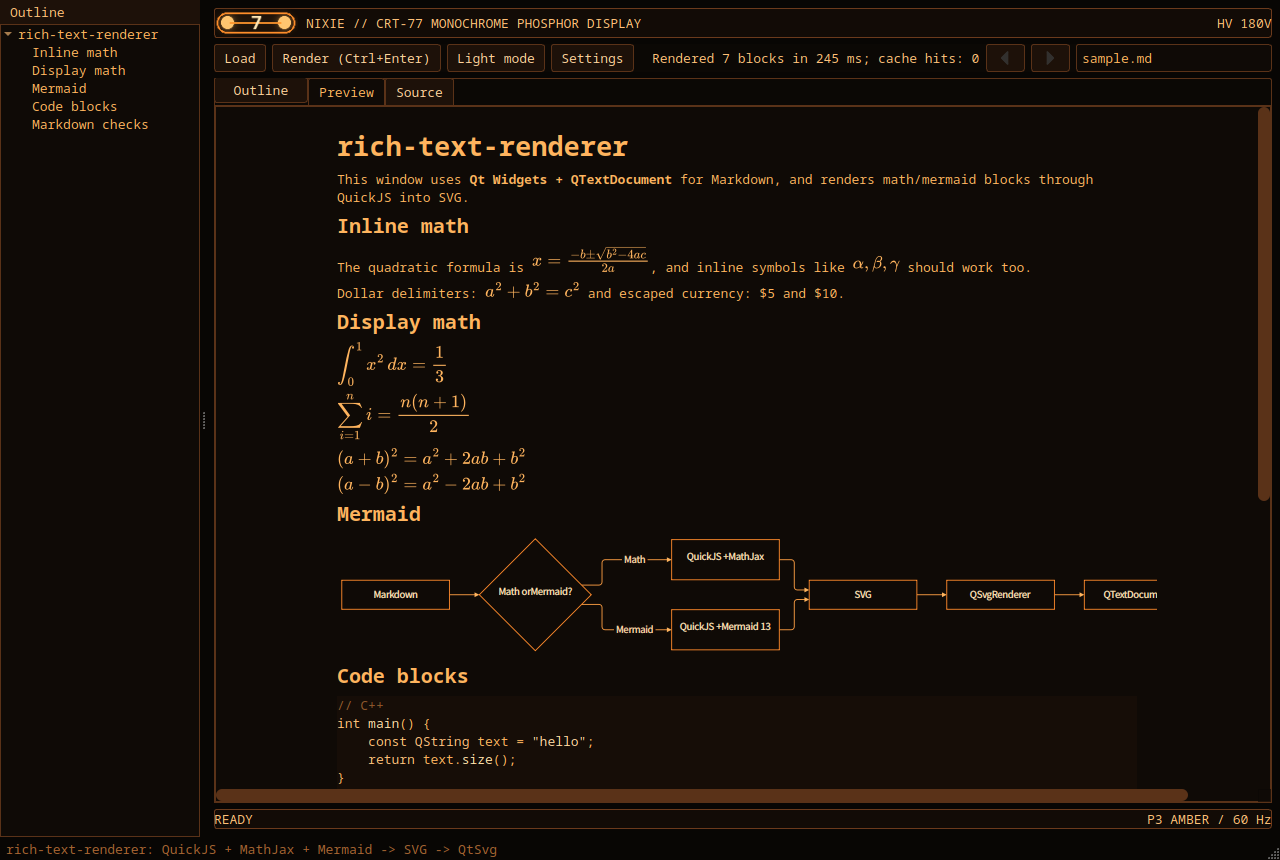
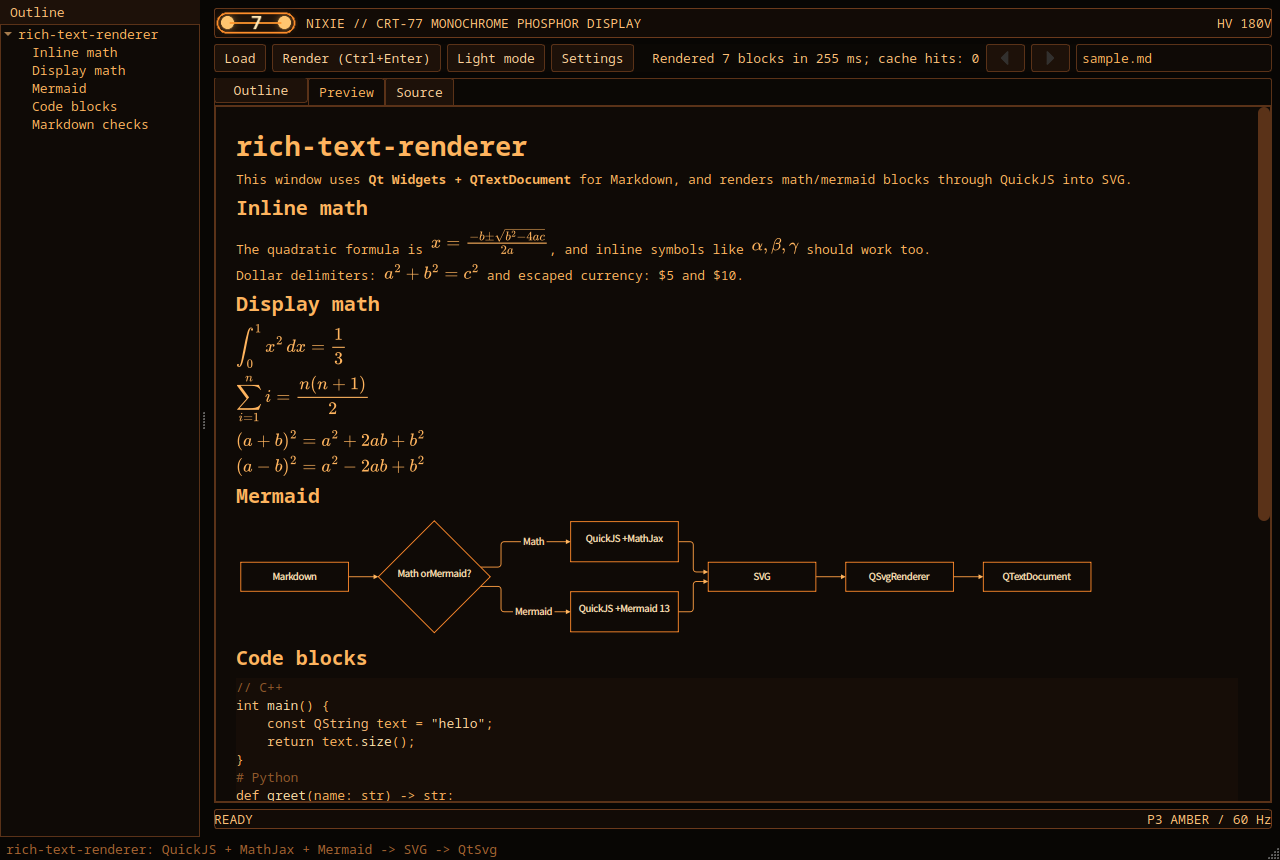
fix: keep Preview and Outline usable in slots layouts
Set the Nixie theme preview.maxTextWidth to 0 so the rendered document follows the Preview pane and splitter instead of staying at a fixed reading width. The full-width behavior also removes the narrow horizontal scroll condition when the Preview pane grows.

Give the Outline dock a 200 px minimum width and restore its usable width after every central layout rebuild. Make the toolbar status label shrinkable so informational text no longer forces a 1058 px central minimum, and give the central root an expanding size policy so rebuilt layouts claim their available space instead of letting the dock absorb it.

Cover status shrinking, Outline minimum and narrow-window widths, Preview width following viewport expansion, and Outline recovery after a slots-to-tabs theme switch. Refresh the Nixie screenshots and document the width behavior.

diff --git a/src/ui/MainWindow.cpp b/src/ui/MainWindow.cpp
@@ -52,6 +52,9 @@
 
 namespace {
 
+constexpr int kDefaultOutlineWidth = 200;
+constexpr int kMinimumOutlineWidth = 200;
+
 QString runtimeRoot()
 {
     const QString appDir = QCoreApplication::applicationDirPath();
@@ -129,8 +132,9 @@ MainWindow::MainWindow(bool dark, const QString &settingsPath, QWidget *parent)
     m_outlineDock->setWidget(m_outlinePanel);
     m_outlineDock->setAllowedAreas(Qt::LeftDockWidgetArea);
     m_outlineDock->setFeatures(QDockWidget::NoDockWidgetFeatures);
+    m_outlineDock->setMinimumWidth(kMinimumOutlineWidth);
     addDockWidget(Qt::LeftDockWidgetArea, m_outlineDock);
-    resizeDocks({m_outlineDock}, {240}, Qt::Horizontal);
+    resizeDocks({m_outlineDock}, {kDefaultOutlineWidth}, Qt::Horizontal);
     connect(m_outlinePanel, &OutlinePanel::blockRequested,
             this, &MainWindow::scrollPreviewToBlock);
     connect(m_outlineToggleButton, &QToolButton::toggled, this, [this](bool visible) {
@@ -224,6 +228,7 @@ void MainWindow::buildCentralShell()
         m_activeLayoutFile = selectedLayout.file;
         m_activeLayoutId = selectedLayout.id;
     }
+    shell.root->setSizePolicy(QSizePolicy::Expanding, QSizePolicy::Expanding);
     m_centralSlots = shell;
 }
 
@@ -244,6 +249,9 @@ void MainWindow::createCentralUiWidgets()
     m_status = new QLabel(QStringLiteral("No document open"), shell);
     m_status->setObjectName(QStringLiteral("statusLabel"));
     m_status->setTextInteractionFlags(Qt::TextSelectableByMouse);
+    // The status text is informational and must not raise the whole window's
+    // minimum width, which would squeeze the Outline dock on narrow screens.
+    m_status->setSizePolicy(QSizePolicy::Ignored, QSizePolicy::Preferred);
     m_backButton = new QToolButton(shell);
     m_backButton->setObjectName(QStringLiteral("historyBackButton"));
     m_backButton->setIcon(style()->standardIcon(QStyle::SP_ArrowBack));
@@ -475,9 +483,25 @@ void MainWindow::showPreviewContent()
 
 void MainWindow::rebuildCentralLayout()
 {
+    const int outlineWidth = m_outlineDock
+                                 ? qMax(kDefaultOutlineWidth, m_outlineDock->width())
+                                 : kDefaultOutlineWidth;
+
     buildCentralShell();
     populateCentralShell();
     setCentralWidget(m_centralSlots.root);
+    if (m_outlineDock) {
+        // Replacing the central widget can leave the dock at a stale width,
+        // either squeezed by the old minimum width or expanded into the new
+        // space. Restore a usable Outline width after each rebuild. The
+        // queued call runs after the new central layout has been activated.
+        resizeDocks({m_outlineDock}, {outlineWidth}, Qt::Horizontal);
+        QTimer::singleShot(0, this, [this, outlineWidth]() {
+            if (m_outlineDock) {
+                resizeDocks({m_outlineDock}, {outlineWidth}, Qt::Horizontal);
+            }
+        });
+    }
     updateToolbarHeights();
 }
 

diff --git a/tests/ui_layout_test.cpp b/tests/ui_layout_test.cpp
@@ -680,7 +680,10 @@ int main(int argc, char **argv)
         auto *tabs = window.findChild<QTabWidget *>(QStringLiteral("documentTabs"));
         auto *outlineToggle =
             window.findChild<QToolButton *>(QStringLiteral("outlineToggleButton"));
-        expect(previewSlot && sourceSlot && outlineSlot && preview && source && tabs,
+        auto *outlineDock =
+            window.findChild<QDockWidget *>(QStringLiteral("outlineDock"));
+        expect(previewSlot && sourceSlot && outlineSlot && preview && source && tabs
+                   && outlineDock,
                QStringLiteral("slots mode widgets found"));
         expect(previewSlot && previewSlot->isAncestorOf(preview),
                QStringLiteral("preview is injected into central.preview"));
@@ -692,12 +695,24 @@ int main(int argc, char **argv)
                QStringLiteral("outline toggle uses the outline slot"));
         expect(sourceSlot && !sourceSlot->isHidden(),
                QStringLiteral("source slot is visible by default"));
+        expect(outlineDock && outlineDock->width() >= outlineDock->minimumWidth()
+                   && outlineDock->minimumWidth() >= 200,
+               QStringLiteral("slots layout keeps a usable outline width"));
+
+        window.resize(1024, 700);
+        QCoreApplication::processEvents();
+        QCoreApplication::processEvents();
+        expect(outlineDock && outlineDock->width() >= outlineDock->minimumWidth(),
+               QStringLiteral("narrow slots layout keeps the outline usable"));
 
         window.setDarkMode(true);
+        QCoreApplication::processEvents();
         QCoreApplication::processEvents();
         QCoreApplication::sendPostedEvents(nullptr, QEvent::DeferredDelete);
         expect(tabs && !tabs->isHidden(),
                QStringLiteral("theme switch restores the tabbed content"));
+        expect(outlineDock && outlineDock->width() >= outlineDock->minimumWidth(),
+               QStringLiteral("theme switch restores the outline width"));
         expect(preview && preview->parentWidget()
                    && preview->parentWidget()->objectName() == QStringLiteral("central.preview"),
                QStringLiteral("theme switch restores the preview page"));

diff --git a/tests/main_window_startup_test.cpp b/tests/main_window_startup_test.cpp
@@ -104,6 +104,11 @@ int main(int argc, char **argv)
     auto *statusLabel = window.findChild<QLabel *>(QStringLiteral("statusLabel"));
     expect(statusLabel && toolbarTrailing->isAncestorOf(statusLabel),
            QStringLiteral("status is injected into the trailing slot"));
+    expect(statusLabel
+               && statusLabel->sizePolicy().horizontalPolicy() == QSizePolicy::Ignored,
+           QStringLiteral("status text can shrink without inflating the window minimum"));
+    expect(outlineDock->minimumWidth() >= 200,
+           QStringLiteral("outline dock keeps a usable minimum width"));
     expect(centralTop->property("centralSlot").toString() == QStringLiteral("top")
                && centralBottom->property("centralSlot").toString() == QStringLiteral("bottom")
                && centralEmpty->property("centralSlot").toString() == QStringLiteral("empty")
@@ -183,6 +188,23 @@ int main(int argc, char **argv)
 
     window.show();
     QCoreApplication::processEvents();
+
+    auto *previewView = window.findChild<QTextBrowser *>(QStringLiteral("previewView"));
+    window.resize(1024, 700);
+    QCoreApplication::processEvents();
+    QCoreApplication::processEvents();
+    const qreal narrowPreviewWidth =
+        previewView ? previewView->document()->textWidth() : 0;
+    expect(window.centralWidget()->minimumSizeHint().width() < 1000,
+           QStringLiteral("central layout minimum width leaves room for the outline"));
+    expect(outlineDock->width() >= outlineDock->minimumWidth(),
+           QStringLiteral("outline dock is not squeezed on a narrow window"));
+    window.resize(1280, 860);
+    QCoreApplication::processEvents();
+    QCoreApplication::processEvents();
+    expect(previewView && narrowPreviewWidth > 0
+               && previewView->document()->textWidth() > narrowPreviewWidth,
+           QStringLiteral("preview text width follows viewport expansion"));
 
     const QString visiblePath = directory.filePath(QStringLiteral("visible-load.md"));
     QString visibleContent =

diff --git a/tests/theme_test.cpp b/tests/theme_test.cpp
@@ -345,7 +345,7 @@ int main(int argc, char **argv)
                && nixie.previewFontFamily == QStringLiteral("Noto Sans Mono")
                && nixie.codeFontFamily == QStringLiteral("Noto Sans Mono"),
            QStringLiteral("nixie sample theme sets the mono families"));
-    expect(nixie.preview.maxTextWidth == 840
+    expect(nixie.preview.maxTextWidth == 0
                && nixie.preview.codeBackground == QColor(QStringLiteral("#160d07"))
                && nixie.preview.codeBlockMargin == 6,
            QStringLiteral("nixie sample theme sets the preview layout"));

diff --git a/docs/RESULTS.md b/docs/RESULTS.md
@@ -287,11 +287,13 @@ documentLayout()->documentSize();
 - 主题图片只支持 PNG/JPEG（≤2MiB、≤4096×4096），通过 `themeAsset` 逻辑 ID 注入，居中且不拉伸；
 - `.ui` 支持 `contentMode: tabs|slots`；`slots` 模式使用 `central.preview` / `central.source`，可选 `central.outline`；
 - `layouts` 支持手动布局变体，Settings 保存 `appearance/layoutId`；自动按宽度切换不实施；
+- Outline dock 保持至少 200px 可用宽度；工具栏状态文本允许收缩，避免把中央布局最小宽度推到窗口边缘；中央布局重建后恢复可用的 Outline 宽度，tabs/slots 或主题切换不会把 Outline 永久压窄；
+- 主题的 `preview.maxTextWidth=0` 时 Preview 文档宽度随面板或 splitter 伸缩；Nixie 示例使用该行为，避免 dual 模式下固定阅读列；
 - `.ui` 只替换 `QMainWindow::centralWidget()` 子树，Outline dock、标签页、工具栏、历史、设置和渲染 controller 保持 C++ 管理；
 - 具名插槽通过 `centralSlot` 动态属性生成固定 QSS 规则，支持背景、边框、圆角和 padding；
 - `samples/themes/aurora-dark` 同时验证 QSS、插槽样式和静态 `.ui` 布局；
-- `samples/themes/nixie-crt` 是完整的暖橙色单色 CRT / 辉光管示例，覆盖全部颜色角色、字体族、代码和 Source 色板、Preview 阅读列与代码样式、8 个 Mermaid 颜色变量、PNG 标志、全部 9 个具名插槽样式以及 `console`/`dual` 两种手动布局；截图见 [nixie-console.png](assets/nixie-console.png) 和 [nixie-dual.png](assets/nixie-dual.png)；
-- `ui-layout-test` 覆盖有效布局、缺失插槽、未知控件、外部 URL、样式表注入、超大 XML、路径越界、错误版本、字号属性、tabs/slots 切换、Source 显隐、布局变体和失败回退；
+- `samples/themes/nixie-crt` 是完整的暖橙色单色 CRT / 辉光管示例，覆盖全部颜色角色、字体族、代码和 Source 色板、Preview 自适应宽度与代码样式、8 个 Mermaid 颜色变量、PNG 标志、全部 9 个具名插槽样式以及 `console`/`dual` 两种手动布局；截图见 [nixie-console.png](assets/nixie-console.png) 和 [nixie-dual.png](assets/nixie-dual.png)；
+- `ui-layout-test` 覆盖有效布局、缺失插槽、未知控件、外部 URL、样式表注入、超大 XML、路径越界、错误版本、字号属性、tabs/slots 切换、Source 显隐、布局变体、Outline 宽度恢复和失败回退；
 - `theme-test` 覆盖 Preview、Mermaid、图片资源和布局变体 schema，并实际加载 `nixie-crt` 示例包及其两个 `.ui` 布局；`svg-sanitizer-test` 和 `svg-cache-test` 覆盖 Mermaid 变量映射与缓存签名；
 - 主题切换到内置主题时会重建默认中央布局，文档、历史、设置和 Outline 不受影响；
 - 内置 light/dark 与阶段改动前截图对比，仅状态栏计时文本和极少量抗锯齿像素不同；

diff --git a/samples/themes/nixie-crt/README.md b/samples/themes/nixie-crt/README.md
@@ -5,9 +5,10 @@ and early CRT monitors. It uses a near-black brown background, a bright
 fluorescent orange text color and a small glowing tube mark, while keeping the
 document readable for long sessions.
 
-The theme is a complete example package: it uses every user-theme capability
-that `rich-text-renderer` currently offers except automatic responsive layout
-switching, which is not implemented.
+The theme exercises the current user-theme schema: colors, typography, syntax
+palettes, preview styling, Mermaid variables, a PNG asset, all slot style keys,
+both content modes and metrics. Automatic responsive layout switching is not
+implemented.
 
 ## Install
 
@@ -50,6 +51,8 @@ and then to the built-in default central layout.
 
 The accent is deliberately brighter than a real amber CRT so headings, links,
 selection and diagram borders remain legible against the warm black surfaces.
+`preview.maxTextWidth` is explicitly `0`: a fixed reading column would ignore
+Preview pane or splitter expansion, which is not desirable for the dual layout.
 
 ## Capabilities used
 
@@ -59,8 +62,9 @@ selection and diagram borders remain legible against the warm black surfaces.
   still controlled by Settings.
 - **Syntax palettes**: separate code and Source palettes, from bright headings
   to dim comments.
-- **Preview**: an 840 px centered reading column, code background and code
-  block spacing.
+- **Preview**: width follows the pane or splitter, so expanding the Preview
+  area makes the rendered document wider; the theme only sets the code
+  background, code block spacing and a 20 px document margin.
 - **Mermaid**: the `base` theme with all eight supported color variables, so
   diagrams use dark node fills and orange borders, lines and labels.
 - **PNG asset**: `assets/nixie-mark.png` is a 96×34 transparent tube mark.

diff --git a/FOR_LOCVAS.md b/FOR_LOCVAS.md
@@ -40,7 +40,7 @@
 - 代码高亮必须使用 Qt `QSyntaxHighlighter`，覆盖 C++、Python、JavaScript、JSON、Bash 和 LaTeX。
 - Source 必须是只读视图，不提供编辑、保存或 dirty 状态。
 - 标题目录必须从 `QTextDocument` 的标题层级生成；点击条目把目标 block 对齐到 Preview 顶部。
-- Outline 固定在主窗口左侧，只能隐藏，不能浮动或取下。
+- Outline 固定在主窗口左侧，只能隐藏，不能浮动或取下；最小宽度为 200px，中央布局重建后恢复可用宽度。
 
 ### 2.3 加载与布局
 
@@ -125,6 +125,7 @@
 - 主题图片只支持主题包内 PNG/JPEG，上限 2MiB、4096×4096；图片在宿主内容矩形中居中，不拉伸、不铺满，超出视口时仅等比缩小。不提供 SVG 主题资源。
 - `.ui` 支持 `contentMode: tabs|slots`；`slots` 模式通过 `central.preview` / `central.source` 注入内容，可选 `central.outline`，并禁止 `central.content`。
 - 布局变体支持手动选择和 `appearance/layoutId`，不支持按窗口宽度自动切换。
+- Outline dock 至少保留 200px 可用宽度；工具栏状态文本允许收缩，不能把中央布局最小宽度推到挤压 Outline 的程度。
 - 主题插槽样式只允许 `background`、`borderColor`、`borderWidth`、`radius` 和 `padding`；应用通过 `centralSlot` 动态属性和固定选择器生成 QSS。插槽样式只在 `qss` 启用时生效。
 - 用户主题包目录为 `QStandardPaths::AppDataLocation/themes/<id>/`，`theme.json` 必须位于其中；布局文件也必须留在主题包目录内。
 - 静态 `.ui` 只替换 `QMainWindow::centralWidget()` 的子树。主窗口、菜单、状态栏、Outline `QDockWidget`、文件加载、导航历史、设置和渲染 controller 必须继续由 C++ 持有。

diff --git a/README.md b/README.md
@@ -157,7 +157,7 @@ Linux 上通常为：
 
 示例主题见 `samples/themes/` 目录，目前包含 `warm-dark`、`aurora-dark` 和 `nixie-crt`。复制到用户主题目录后，在 Settings 的 Appearance 页选择；Settings 中的 `Open themes folder` 会打开主题目录。`aurora-dark` 同时包含可选 `.ui` 中央布局、插槽样式和自定义文档边距。
 
-`nixie-crt` 是完整的暖橙色单色 CRT / 辉光管示例包，包含 PNG 标志、Preview 居中阅读列、Mermaid 颜色变量、具名插槽样式，以及 `console`（tabs）和 `dual`（slots）两种手动布局。安装方法、配色和使用的配置能力见 `samples/themes/nixie-crt/README.md`。
+`nixie-crt` 是完整的暖橙色单色 CRT / 辉光管示例包，包含 PNG 标志、随 Preview 面板伸缩的文档宽度、Mermaid 颜色变量、具名插槽样式，以及 `console`（tabs）和 `dual`（slots）两种手动布局。安装方法、配色和使用的配置能力见 `samples/themes/nixie-crt/README.md`。
 
 ![Nixie CRT 主题](docs/assets/nixie-console.png)
 
